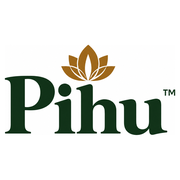
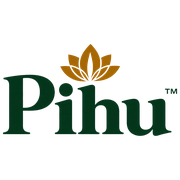
setup

Changed region(s): [[0.2778, 0.25, 1.0, 0.7778], [0.0, 0.3889, 0.2778, 0.75], [0.2778, 0.4444, 0.3056, 0.4722]]

diff --git a/components/Landing.tsx b/components/Landing.tsx
@@ -32,7 +32,7 @@ export default function Landing() {
       <header className="sticky top-0 z-10 flex items-center justify-between bg-green-900 px-[5%] py-3 text-white">
         <a href="#top" aria-label={SITE.brand}>
           <Image
-            src="/images/logo.png"
+            src="/images/logo-v2.png"
             alt={`${SITE.brand} logo`}
             width={800}
             height={510}

diff --git a/components/JsonLd.tsx b/components/JsonLd.tsx
@@ -12,7 +12,7 @@ export default function JsonLd() {
         "@id": `${SITE_URL}/#organization`,
         name: SITE.brand,
         url: SITE_URL,
-        logo: `${SITE_URL}/images/logo.png`,
+        logo: `${SITE_URL}/images/logo-v2.png`,
         email: SITE.email,
         telephone: `+${SITE.phone}`,
         slogan: "From Farm to Your Bowl.",
